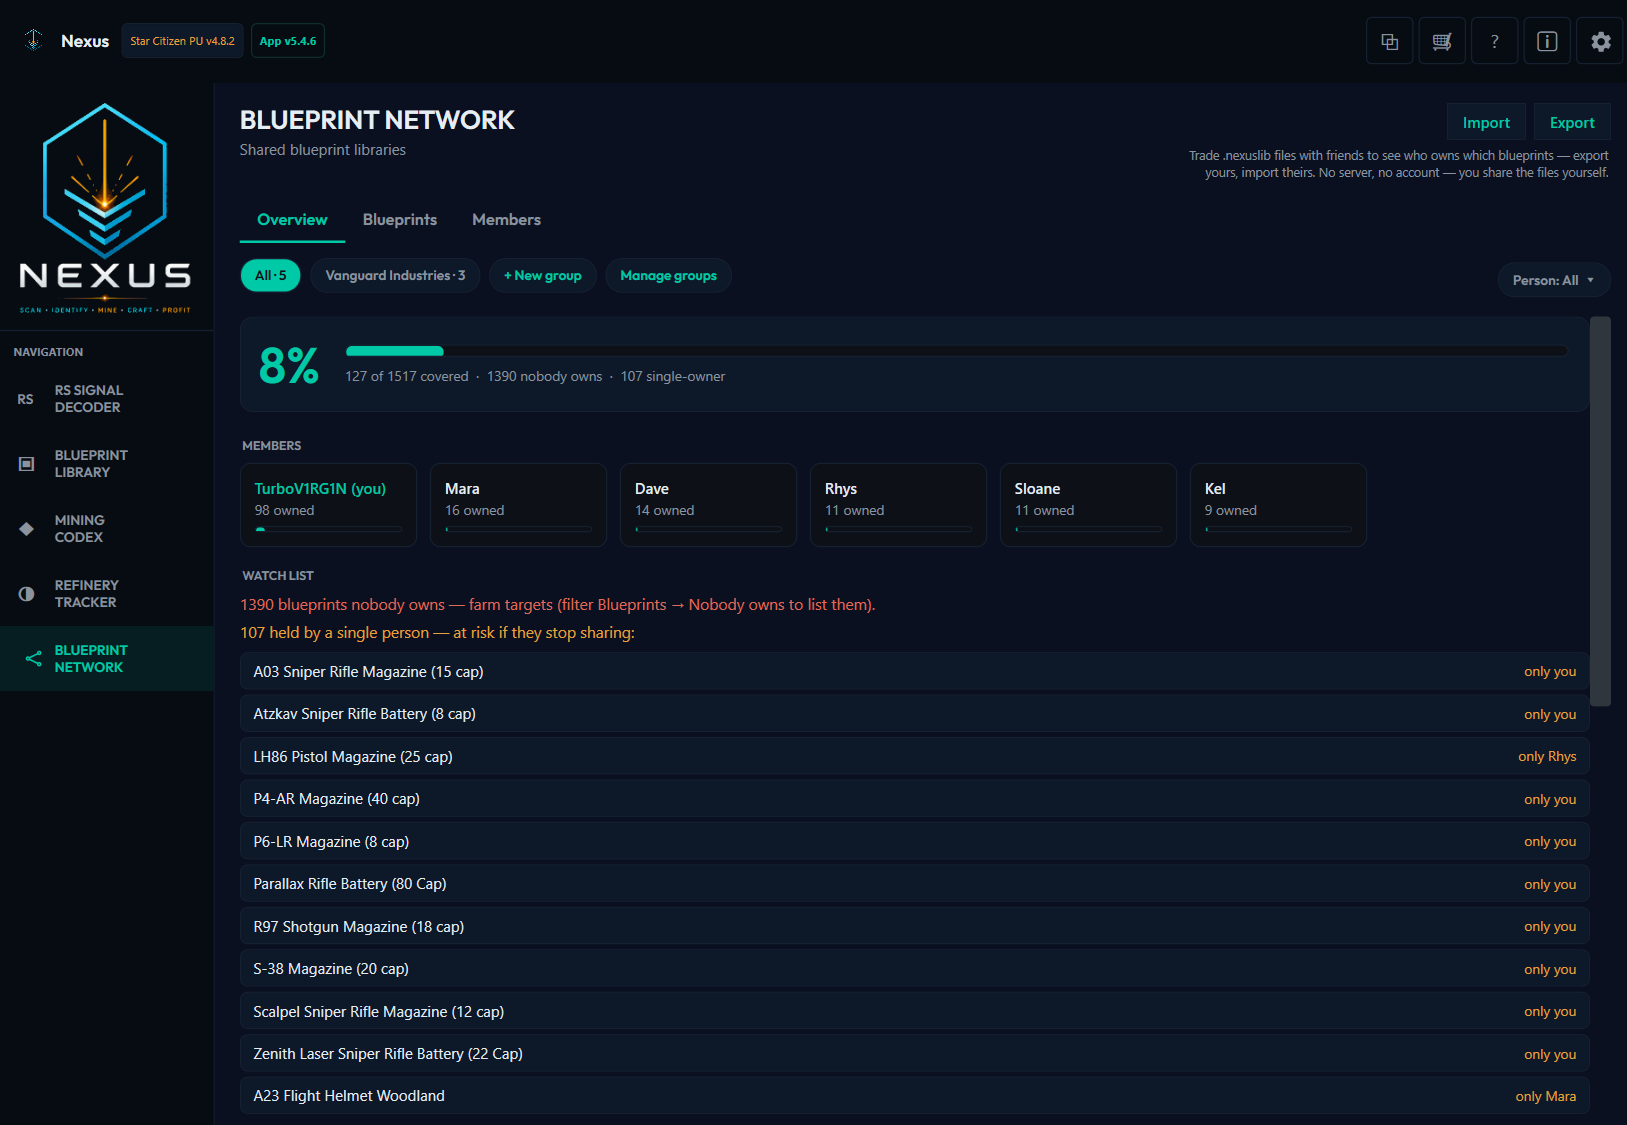
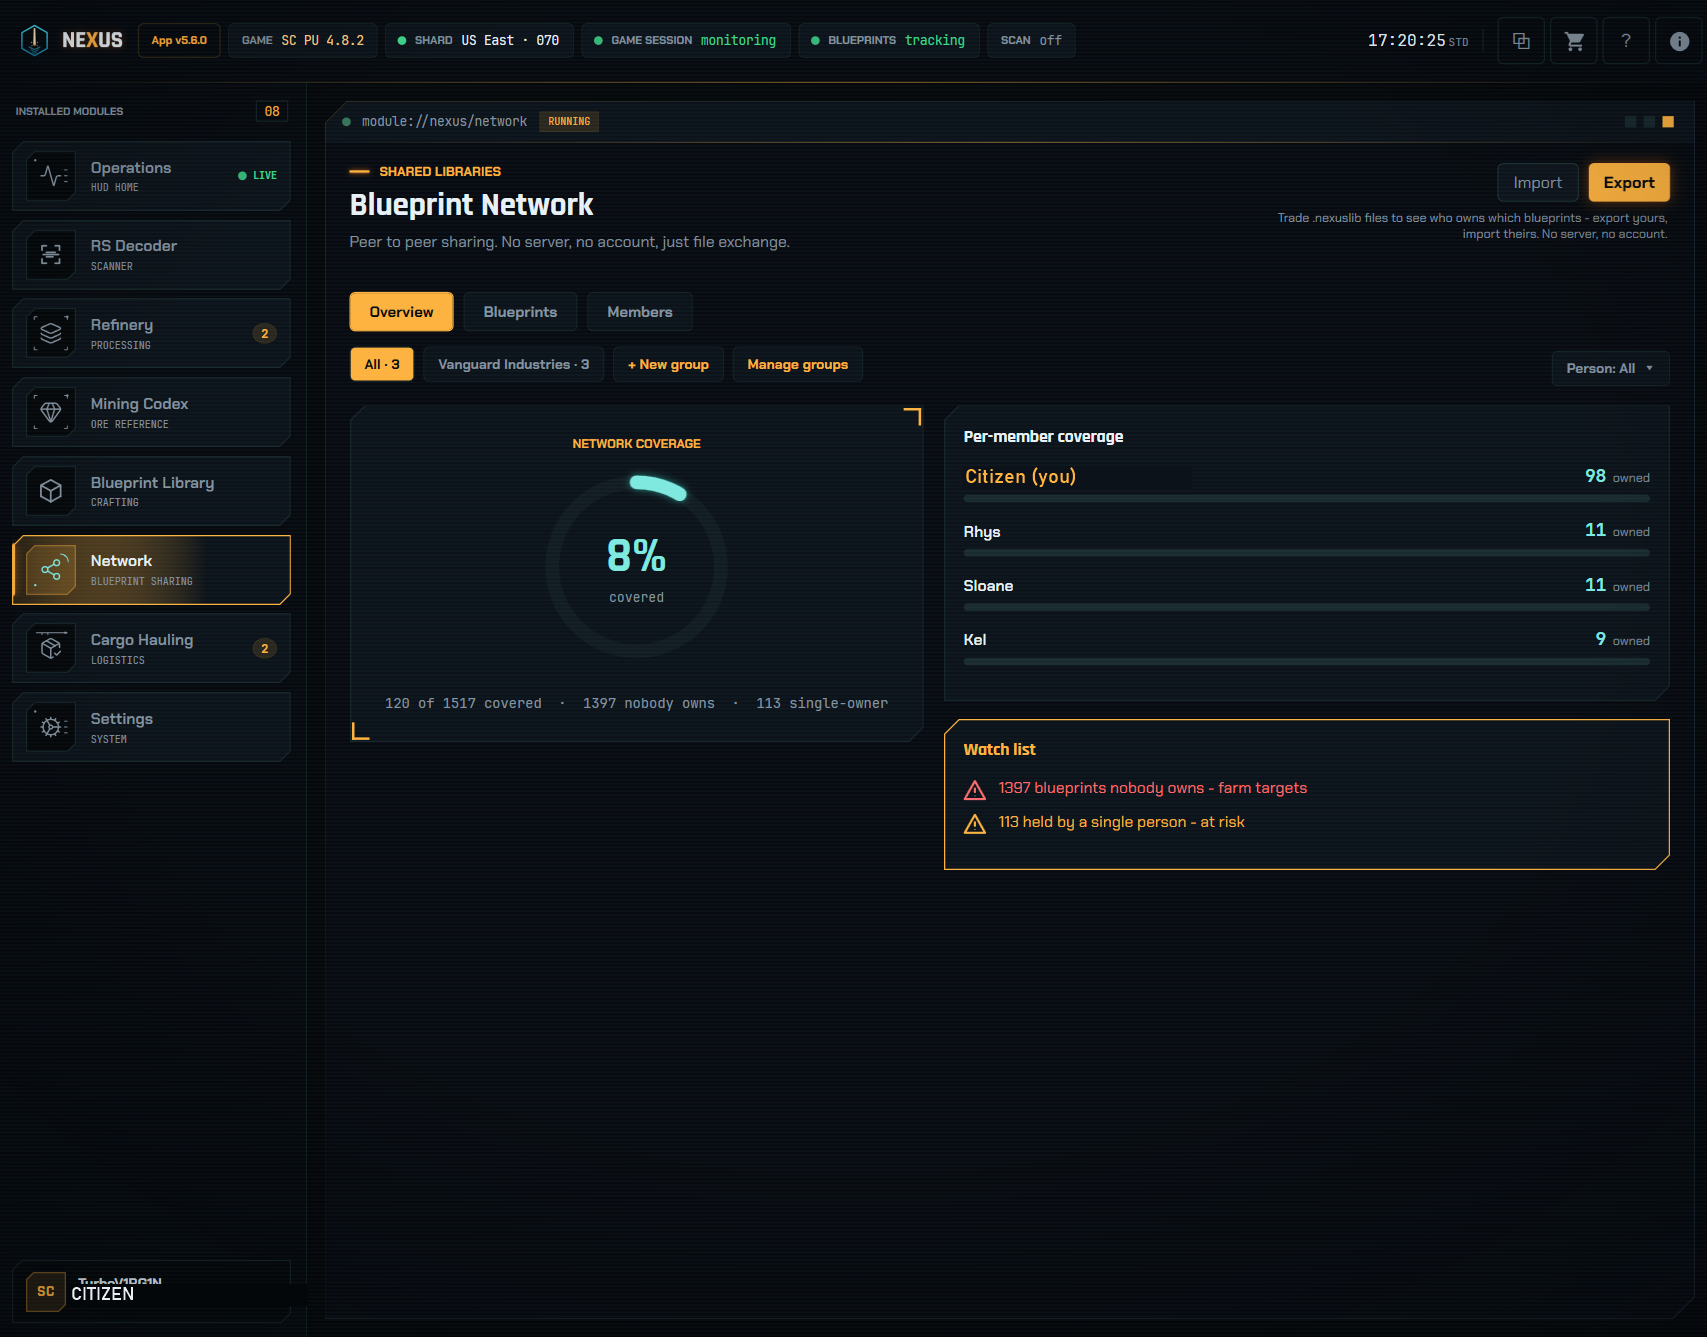
docs(readme): rework intro + EAC notice, live new-UI screenshot set, trim install + network sections

diff --git a/README.md b/README.md
@@ -4,75 +4,90 @@
   <img src="NexusApp/Assets/nexus_logo_classic.png" alt="Nexus logo" width="240">
 </p>
 
-**An offline, EAC-safe companion app for Star Citizen, built for the mine · refine · craft loop.**
+**The offline, EAC-safe companion for Star Citizen's mine, refine, craft, haul loop.**
 
-Nexus decodes RS (Radioactive Signal) scan values into the resource and node count they represent, tracks refinery jobs, and works as a fast, searchable reference for resources, crafting blueprints, and the blueprints you own. It can also read your game log to auto-collect blueprints the moment you unlock them in-game (Beta), all from an overlay that floats over your game while staying **fully offline**. With the **Blueprint Network**, you can pool your owned-blueprint library with friends or your org by trading files, so your whole group can see who owns what.
+Nexus decodes RS scan values into resource type and node count, times your refinery jobs, and doubles as a searchable reference for resources, blueprints, and which blueprints you own. It reads the game log to auto-collect blueprints the moment you unlock them and to merge your accepted hauling contracts into one consolidated pickup and delivery route, all from an overlay that floats over the game, **fully offline**. The **Blueprint Network** extends ownership tracking to friends or your org: trade library files and everyone sees who owns what.
 
 > **Disclaimer:** Nexus is an unofficial, fan-made tool. It is **not** affiliated with, endorsed by, or sponsored by Cloud Imperium Games (CIG) or Roberts Space Industries (RSI). Star Citizen is a trademark of CIG.
 
-## How Nexus stays EAC-safe
-
-Nexus runs entirely **outside** Star Citizen. It sits beside the game like a second monitor and never reaches into it.
-
-- **Screen only:** Nexus reads your screen using the standard Windows screen-capture and OCR APIs (the same ones screenshot tools use). It never reads Star Citizen's memory.
-- **No injection:** no DLLs, no hooks, nothing loaded into the game process. Nexus is a separate window.
-- **No game files modified:** Nexus never writes to or alters any Star Citizen file; its reference data comes from a local database bundled with the app. The optional **Session Tracking** feature *reads* the plain-text logs the game writes to disk (`Game.log` and its rotated backups), read-only and opened shared so it never locks them, to detect blueprints you've unlocked. It may also read the game's `global.ini` localization file (read-only) to translate mod-renamed blueprint names back to ones it recognizes. The **Blueprint Network** feature additionally reads your RSI handle from `Game.log` (read-only) to pre-fill a shared-library export; you can use a nickname instead, and nothing is shared unless you export a file yourself. It never reads the game's memory or process, and never touches the packed game data (`.p4k`).
-- **No admin, no network:** it installs per-user, needs no elevation, and runs fully offline. Verify it yourself with a firewall.
-- **Open source:** the entire OCR pipeline is in this repo. Read it for yourself.
-
-The result: there's nothing for Easy Anti-Cheat to flag.
+> **EAC-safe by design:** Nexus runs entirely outside Star Citizen - no injection, no memory reading, no game files modified. It only captures your screen (the standard Windows OCR APIs) and reads the plain-text `Game.log` the game writes to disk (read-only, opened shared). It installs per-user, runs fully offline, and the whole pipeline is open source in this repo. There's nothing for Easy Anti-Cheat to flag.
 
 ## Features
 
 | Page | What it does |
 |------|--------------|
+| **Operations** | The landing dashboard: your last scan, refinery queue, cargo in transit, session blueprints, and network coverage at a glance, with links into every module. |
 | **RS Signal Decoder** | Manually enter or **auto-scan** an RS value to identify the resource and node count. |
+| **Refinery Tracker** | Track active refinery jobs with live countdown timers and status indicators. |
+| **Mining Codex** | Full reference table of all mineable resources, filterable by system (Stanton / Pyro / Nyx) and method (Ship / ROC / FPS). |
 | **Blueprint Library** | Search ship / weapon / armor / ammo blueprints and see the raw resources each one requires. Mark which blueprints you own and filter by owned / not owned. |
 | **Blueprint Network** | Share which blueprints you own with friends or your org by trading library files, and see who in your group owns what — coverage, gaps to farm, and single-owner risk. Fully offline: you exchange files, nothing syncs. |
-| **Mining Codex** | Full reference table of all mineable resources, filterable by system (Stanton / Pyro / Nyx) and method (Ship / ROC / FPS). |
-| **Refinery Tracker** | Track active refinery jobs with live countdown timers and status indicators. |
+| **Cargo Hauling** | Hauling contracts you accept in-game appear automatically from `Game.log`, consolidated into collect and deliver stops per location. Optional screen-scan enriches each haul with reward, contractor, and cargo details. |
 
 **Highlights**
 
 - **Auto-scan overlay:** draw a region over the RS value on your screen and Nexus reads it automatically using the native Windows OCR engine.
 - **Floating overlay** that sits over the game and can be repositioned and dimmed to taste.
 - **Blueprint ownership tracking:** mark which blueprints you own, filter the library by owned / not owned, and track your collection completion per category, so you don't have to check in-game.
-- **Session Tracking (Beta):** opt in and Nexus reads your Star Citizen `Game.log` to mark blueprints Owned automatically the moment you receive them in-game, or import everything you've already unlocked from past logs. It is read-only and never writes to or modifies any game file.
+- **Session Tracking:** Nexus reads your Star Citizen `Game.log` to mark blueprints Owned automatically the moment you receive them in-game, or imports everything you've already unlocked from past logs. Always on, read-only, and it never writes to or modifies any game file.
+- **Cargo Hauling:** accepted contracts appear on their own, with a consolidated collect-and-deliver plan across all active hauls, live shard tracking, and automatic cleanup when you change shards.
+- **Guided tour and built-in user guide:** a welcome tour walks new users through the app, replayable anytime from Help, alongside a searchable help guide covering every module.
 - **Blueprint Network:** pool your owned-blueprint library with friends or your org by trading files to see group coverage, gaps, and single-owner risk. Full details in the Blueprint Network section below.
 - **Shopping list:** add resources or blueprint ingredients and have them highlighted in scan results and history.
 - **Persistent work orders:** refinery timers survive app restarts.
 - Fully **offline:** no account or internet connection required. Settings and work orders are stored locally on your PC.
 
-## Blueprint Network — share your library, see who owns what
-
-Most companion tools only track *your* data. **Blueprint Network** adds an offline way to pool blueprint libraries with your friends or your org. Export your owned blueprints to a small file, send it however you like (Discord, a shared drive), and import theirs. You then see your whole group's coverage at a glance: what everyone owns, the gaps nobody has yet, and the blueprints only a single person holds. Filter the view to any one person to see exactly what they own or are missing, group people into Friends/org lists, and let a coordinator merge everyone into a single roster the group imports once. There is no server and no account; you move the files yourself, and nothing leaves your PC unless you choose to share it.
-
 ## Screenshots
 
-### Auto-scan overlay
-The floating overlay sits over Star Citizen and reads the RS value straight off your screen, decoding the resource and node count in real time. Here it's identified an **RS 11,700** signal as **Torite** (RS 3,900 x3 nodes), with live scan history below.
+### Operations
+The landing dashboard during a live session: last scan decoded, refinery queue with one order ready, cargo in transit, and your current shard - with drill-in links to every module.
 
-[![Nexus auto-scan overlay floating over Star Citizen gameplay](docs/screenshots/overlay.jpg)](docs/screenshots/overlay.jpg)
+[![Nexus Operations dashboard with live KPI cards, refinery queue, active hauls, and server shard panel](docs/screenshots/operations.png)](docs/screenshots/operations.png)
+
+### Auto-scan, in the cockpit
+The overlay's SCAN tab riding over Star Citizen while mining: the detection box is drawn around the in-game RS readout, and Nexus decodes it live - **RS 11,700** identified as **Torite** (RS 3,900 x3 nodes, exact), scan history filling in below.
+
+[![Nexus overlay auto-scanning an RS value in the Star Citizen mining cockpit and decoding it live](docs/screenshots/overlay-scan.png)](docs/screenshots/overlay-scan.png)
+
+### Overlay HUB over the game
+The HUB tab floating over gameplay: green status lights for session tracking and both scanners, blueprints collected this session, and your current server and shard - all read-only, at a glance.
+
+[![Nexus overlay HUB tab floating over Star Citizen gameplay with status lights and shard panel](docs/screenshots/overlay.jpg)](docs/screenshots/overlay.jpg)
+
+### RS Signal Decoder
+Type any RS value for a ranked breakdown: the best match as a hero card with node count and refinery yield, close matches below, and re-runnable scan history on the right.
+
+[![Nexus RS Decoder with a Lindinium exact match hero card and other close matches](docs/screenshots/rs-decoder.png)](docs/screenshots/rs-decoder.png)
 
 ### Blueprint Library
-Search any ship, weapon, or armor blueprint to see exactly what it takes to craft: the raw resources and quantities, where to mine them, and the missions that unlock it.
+Drill into any blueprint for its full bill of materials, the contracts that unlock it, and a ranked WHERE TO MINE plan for the ingredients - and track everything you own.
 
-[![Nexus Blueprint Library showing the ADP-mk4 Arms Woodland armor recipe, bill of materials, and unlock missions](docs/screenshots/blueprint-library.png)](docs/screenshots/blueprint-library.png)
+[![Nexus Blueprint Library showing a blueprint's bill of materials, unlock contracts, and where to mine panel](docs/screenshots/blueprint-library.png)](docs/screenshots/blueprint-library.png)
 
 ### Blueprint Network
-Group coverage view: blueprints owned across the group, the gaps nobody owns yet, and single-owner blueprints flagged as at-risk.
+Group coverage at a glance: the coverage ring, per-member ownership, and a watch list of the gaps nobody owns yet and single-owner blueprints at risk.
 
-[![Nexus Blueprint Network showing group blueprint coverage, per-member ownership, and single-owner blueprints](docs/screenshots/blueprint-network.png)](docs/screenshots/blueprint-network.png)
+[![Nexus Blueprint Network showing group blueprint coverage ring, per-member ownership, and watch list](docs/screenshots/blueprint-network.png)](docs/screenshots/blueprint-network.png)
 
 ### Mining Codex
-A full reference of every mineable resource, grouped by rarity, searchable, and filterable by star system (Stanton / Pyro / Nyx) and mining method (Ship / ROC / FPS).
+A full reference of every mineable resource: searchable, filterable by star system (Stanton / Pyro / Nyx) and mining method (Ship / ROC / FPS), with a detail panel covering RS value, refinery yields, locations, and the blueprints that use it.
 
-[![Nexus Mining Codex reference table grouped by rarity](docs/screenshots/mining-codex.png)](docs/screenshots/mining-codex.png)
+[![Nexus Mining Codex resource list with rarity colors and a Gold detail panel showing refinery yields and locations](docs/screenshots/mining-codex.png)](docs/screenshots/mining-codex.png)
 
 ### Refinery Tracker
-Track active refinery jobs with live countdown timers and status indicators, so you always know what's refining and when it's ready to collect.
+Live work orders as cards: one ready to collect, one mid-refine with its countdown running. Timers survive app restarts.
 
-[![Nexus Refinery Tracker with active refinery jobs, timers, and status](docs/screenshots/refinery-tracker.png)](docs/screenshots/refinery-tracker.png)
+[![Nexus Refinery Tracker with a ready work order and a refining order counting down](docs/screenshots/refinery-tracker.png)](docs/screenshots/refinery-tracker.png)
+
+### Cargo Hauling
+Two live contracts tracked automatically from `Game.log` with their rewards, plus the consolidated collect / deliver table that turns every leg into one route plan grouped by location.
+
+[![Nexus Cargo Hauling page with live contract cards and the collect deliver consolidation table](docs/screenshots/cargo-hauling.png)](docs/screenshots/cargo-hauling.png)
+
+### Overlay HAULING tab
+The same haul plan in-game: totals, consolidated stops, and per-contract progress without leaving the pilot seat.
+
+[![Nexus overlay HAULING tab with haul totals, consolidated stops, and contract progress](docs/screenshots/overlay-hauling.png)](docs/screenshots/overlay-hauling.png)
 
 ## Installation (end users)
 
@@ -87,17 +102,6 @@ A guided setup that installs Nexus like normal Windows software.
 3. Run it and follow the prompts (optionally tick "Create a desktop shortcut").
 4. Launch Nexus from the Start menu or desktop.
 
-**Pros**
-- Creates Start-menu and optional desktop shortcuts for you
-- Clean uninstall from *Add or remove programs*
-- Installs per-user under `%LOCALAPPDATA%` — still no admin rights
-- Simplest path for non-technical users
-
-**Cons**
-- Writes files to `%LOCALAPPDATA%\Nexus` and registers an uninstaller
-- One extra install step compared with just running the exe
-- Updating means re-running a newer installer
-
 ### Option 2 — Portable (standalone `NexusApp.exe`)
 
 Run the app directly, with no installation.
@@ -105,19 +109,7 @@ Run the app directly, with no installation.
 1. Download **`NexusApp_portable.zip`** from the [Releases](../../releases) page.
 2. Right-click the ZIP → **Properties** → check **Unblock** at the bottom → **OK**.
 3. Right-click the ZIP → **Extract All…** and choose a location (Desktop or Documents is fine).
-4. Open the extracted folder and double-click **`NexusApp.exe`**.
-
-**Pros**
-- No installation and no admin rights
-- Everything lives in one folder — nothing is written to the registry
-- Leaves no system traces; delete the folder to remove it completely
-- Easy to move between PCs or run from a USB stick
-
-**Cons**
-- No Start-menu or desktop shortcut — you launch it from the folder
-- No entry in *Add or remove programs*
-- Updating means downloading and replacing the folder yourself
-- Keep the whole folder together — `NexusApp.exe` needs the files beside it
+4. Open the extracted folder and double-click **`NexusApp.exe`** (keep the whole folder together).
 
 > **Windows SmartScreen note (applies to both options):** the app is unsigned (code-signing certificates cost several hundred dollars a year), so Windows may show a blue *"Windows protected your PC"* dialog on first run. Click **More info → Run anyway**, or use the **Unblock** step above. If Defender flags it, that's a false positive for an unsigned app.
 
@@ -156,7 +148,7 @@ Nexus is built by one person for the mining community, and hearing from people w
 
 Got a bug, a feature idea, or want to share how Nexus is working for you? **Message T3SoD on Discord** or **[open an issue on GitHub](https://github.com/T3SoD/NexusApp/issues)**. All feedback is welcome and helps shape where Nexus goes next.
 
-When reporting a bug, you can attach a diagnostic snapshot: open **Settings** (the cog) → **Diagnostics** → **Open App Log Monitor**, then **Save snapshot** to bundle your app version, OS, and recent log into a single file.
+When reporting a bug, you can attach a diagnostic snapshot: open the **Settings** module at the bottom of the app dock → **Diagnostics** → **Open App Log Monitor**, then **Save snapshot** to bundle your app version, OS, and recent log into a single file.
 
 ## License
 
